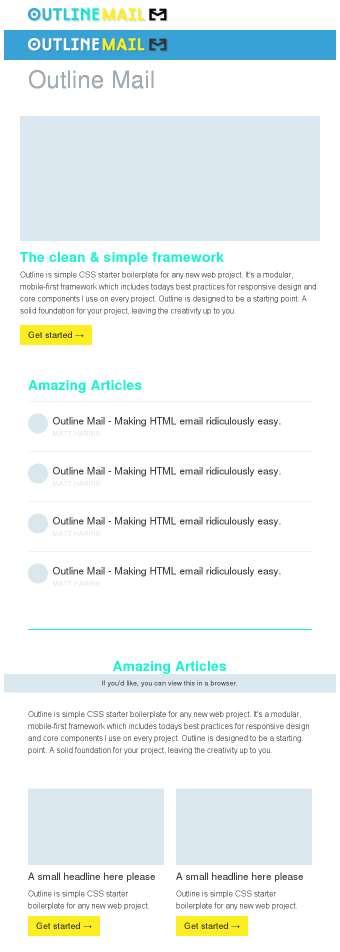
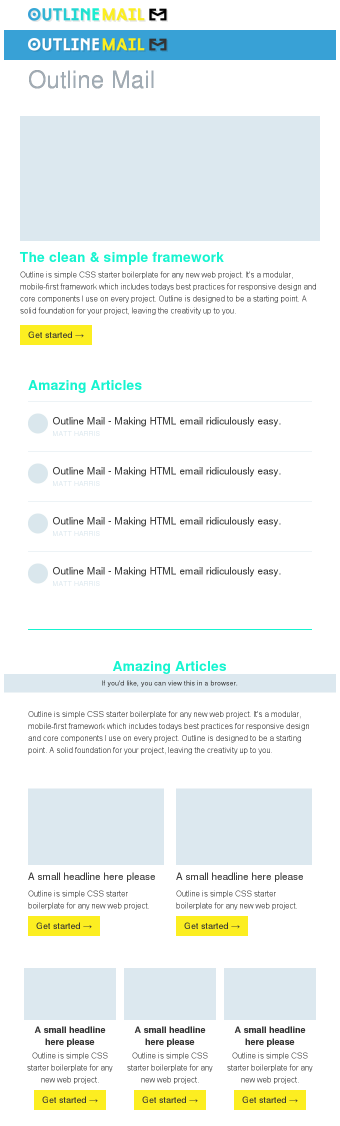
Three up element

Changed region(s): [[0.0, 0.2132, 1.0, 1.0], [0.0, 0.0, 1.0, 0.1218]]

diff --git a/templates/outline/template-outline.html b/templates/outline/template-outline.html
@@ -48,6 +48,8 @@
             oneUpTextBlock {label: One column text; properties: col1;}
             twoUpTextBlock col1, twoUpTextBlock col2 {label: Column; properties: title text image button;}
             twoUpTextBlock {label: One column text; properties: col1 col2 showTitle=true showImages=true showButtons=true align=left;}
+            threeUpTextBlock col1, threeUpTextBlock col2, threeUpTextBlock col3 {label: Column; properties: title text image button;}
+            threeUpTextBlock {label: One column text; properties: col1 col2 col3 showTitle=true showImages=true showButtons=true align=left;}
         }
     </style>
 </head>
@@ -542,6 +544,169 @@
 <!-- /Two up button centre -->
 
 
+<!-- Three up button centre -->
+<table border="0" cellpadding="0" cellspacing="0" width="100%" data-ko-block="threeUpTextBlock">
+  <tr>
+    <td style="padding: 32px 0 0 0;" bgcolor="#ffffff" align="center">
+      <table class="content-table" align="center" border="0" cellpadding="0" cellspacing="0" width="600">
+        <tr>
+          <td align="center" valign="top">
+            <!-- Three column -->
+            <table border="0" cellpadding="0" cellspacing="0" width="100%">
+              <tr>
+                <td>
+                  <!-- Column 1 -->
+                  <!--[if mso]><table border="0" cellpadding="0" cellspacing="0" width="600"><tr><td width="200" align="left"><![endif]-->
+                  <table class="content-table" border="0" cellpadding="0" cellspacing="0" width="33%" align="left">
+                    <tr>
+                      <td style="padding: 0 8px 0 8px" valign="top">
+                        <table border="0" cellpadding="0" cellspacing="0" width="100%">
+                          <tr data-ko-display="showImages">
+                            <td align="center">
+                              <a target="_blank" style="-ko-attr-href: @col1.button.url;">
+                                <img data-ko-editable="col1.image.src" style="display: block; font-family: Helvetica, Arial, sans-serif; color: #333333; font-size: 14px; width: 184px; height: 104px;" class="img-max" src="http://outlinemail.co.uk/img/16x9-img-placeholder.png" alt="Outline Mail" width="184" height="104" border="0">
+                              </a>
+                            </td>
+                          </tr>
+                          <tr>
+                            <td data-ko-display="showTitle" data-ko-editable="col1TitleText" style="-ko-attr-align: @align; padding: 8px 0 4px 0; color: #333333; font-family: Helvetica, Arial, sans-serif; font-size: 18px; font-weight: bold; line-height: 24px;">
+                              A small headline here please
+                            </td>
+                          </tr>
+                          <tr>
+                            <td data-ko-editable="col1.text" style="-ko-attr-align: @align; padding: 0 0 8px 0; color: #333333; font-family: Helvetica, Arial, sans-serif; font-size: 16px; font-weight: normal; line-height: 24px;">
+                              Outline is simple CSS starter boilerplate for any new web project.
+                            </td>
+                          </tr>
+                          <tr data-ko-display="showButtons">
+                            <td style="padding: 0 0 32px 0;">
+                              <!-- Button -->
+                              <table align="center" border="0" cellspacing="0" cellpadding="0" width="100%" align="center">
+                                <tr>
+                                  <td style="-ko-attr-align: @align;">
+                                    <table class="mobile-button-wrap" border="0" cellspacing="0" cellpadding="0">
+                                      <tr>
+                                        <td align="center">
+                                          <a data-ko-editable="col1ButtonText" class="mobile-button" style="-ko-attr-href: @col1.button.url; background-color: #fcee21; border-top: 8px solid #fcee21; border-right: 16px solid #fcee21; border-bottom: 8px solid #fcee21; border-left: 16px solid #fcee21; display: inline-block; color: #333333; font-family: Helvetica, Arial, sans-serif; font-size: 18px; font-weight: normal; line-height: 24px; text-decoration: none;" href="http://outlinemail.co.uk" target="_blank">Get started &#8594;</a>
+                                        </td>
+                                      </tr>
+                                    </table>
+                                  </td>
+                                </tr>
+                              </table>
+                              <!-- /Button -->
+                            </td>
+                          </tr>
+                        </table>
+                      </td>
+                    </tr>
+                  </table>
+                  <!-- /Column 1 -->
+                  <!--[if mso]></td><td width="200" align="left"><![endif]-->
+                  <!-- Column 2 -->
+                  <table class="content-table" border="0" cellpadding="0" cellspacing="0" width="33%" align="left">
+                    <tr>
+                      <td style="padding: 0 8px 0 8px" valign="top">
+                        <table border="0" cellpadding="0" cellspacing="0" width="100%">
+                          <tr data-ko-display="showImages">
+                            <td align="center">
+                              <a target="_blank" style="-ko-attr-href: @col2.button.url;">
+                                <img data-ko-editable="col2.image.src" style="display: block; font-family: Helvetica, Arial, sans-serif; color: #333333; font-size: 14px; width: 184px; height: 104px;" class="img-max" src="http://outlinemail.co.uk/img/16x9-img-placeholder.png" alt="Outline Mail" width="184" height="104" border="0">
+                              </a>
+                            </td>
+                          </tr>
+                          <tr>
+                            <td data-ko-display="showTitle" data-ko-editable="col2TitleText" style="-ko-attr-align: @align; padding: 8px 0 4px 0; color: #333333; font-family: Helvetica, Arial, sans-serif; font-size: 18px; font-weight: bold; line-height: 24px;">
+                              A small headline here please
+                            </td>
+                          </tr>
+                          <tr>
+                            <td data-ko-editable="col2.text" style="-ko-attr-align: @align; padding: 0 0 8px 0; color: #333333; font-family: Helvetica, Arial, sans-serif; font-size: 16px; font-weight: normal; line-height: 24px;">
+                              Outline is simple CSS starter boilerplate for any new web project.
+                            </td>
+                          </tr>
+                          <tr data-ko-display="showButtons">
+                            <td style="padding: 0 0 32px 0;">
+                              <!-- Button -->
+                              <table align="center" border="0" cellspacing="0" cellpadding="0" width="100%" align="center">
+                                <tr>
+                                  <td style="-ko-attr-align: @align;">
+                                    <table class="mobile-button-wrap" border="0" cellspacing="0" cellpadding="0">
+                                      <tr>
+                                        <td align="center">
+                                          <a data-ko-editable="col2ButtonText" class="mobile-button" style="-ko-attr-href: @col2.button.url; background-color: #fcee21; border-top: 8px solid #fcee21; border-right: 16px solid #fcee21; border-bottom: 8px solid #fcee21; border-left: 16px solid #fcee21; display: inline-block; color: #333333; font-family: Helvetica, Arial, sans-serif; font-size: 18px; font-weight: normal; line-height: 24px; text-decoration: none;" href="http://outlinemail.co.uk" target="_blank">Get started &#8594;</a>
+                                        </td>
+                                      </tr>
+                                    </table>
+                                  </td>
+                                </tr>
+                              </table>
+                              <!-- /Button -->
+                            </td>
+                          </tr>
+                        </table>
+                      </td>
+                    </tr>
+                  </table>
+                  <!-- /Column 2 -->
+                  <!--[if mso]></td><td width="200" align="left"><![endif]-->
+                  <!-- Column 3 -->
+                  <table class="content-table" border="0" cellpadding="0" cellspacing="0" width="33%" align="right">
+                    <tr>
+                      <td style="padding: 0 8px 0 8px" valign="top">
+                        <table border="0" cellpadding="0" cellspacing="0" width="100%">
+                          <tr data-ko-display="showImages">
+                            <td align="center">
+                              <a target="_blank" style="-ko-attr-href: @col3.button.url;">
+                                <img data-ko-editable="col3.image.src" style="display: block; font-family: Helvetica, Arial, sans-serif; color: #333333; font-size: 14px; width: 184px; height: 104px;" class="img-max" src="http://outlinemail.co.uk/img/16x9-img-placeholder.png" alt="Outline Mail" width="184" height="104" border="0">
+                              </a>
+                            </td>
+                          </tr>
+                          <tr>
+                            <td data-ko-display="showTitle" data-ko-editable="col3TitleText" style="-ko-attr-align: @align; padding: 8px 0 4px 0; color: #333333; font-family: Helvetica, Arial, sans-serif; font-size: 18px; font-weight: bold; line-height: 24px;">
+                              A small headline here please
+                            </td>
+                          </tr>
+                          <tr>
+                            <td data-ko-editable="col3.text" style="-ko-attr-align: @align; padding: 0 0 8px 0; color: #333333; font-family: Helvetica, Arial, sans-serif; font-size: 16px; font-weight: normal; line-height: 24px;">
+                              Outline is simple CSS starter boilerplate for any new web project.
+                            </td>
+                          </tr>
+                          <tr data-ko-display="showButtons">
+                            <td style="padding: 0 0 32px 0;">
+                              <!-- Button -->
+                              <table align="center" border="0" cellspacing="0" cellpadding="0" width="100%" align="center">
+                                <tr>
+                                  <td style="-ko-attr-align: @align;">
+                                    <table class="mobile-button-wrap" border="0" cellspacing="0" cellpadding="0">
+                                      <tr>
+                                        <td align="center">
+                                          <a data-ko-editable="col3ButtonText" class="mobile-button" style="-ko-attr-href: @col3.button.url; background-color: #fcee21; border-top: 8px solid #fcee21; border-right: 16px solid #fcee21; border-bottom: 8px solid #fcee21; border-left: 16px solid #fcee21; display: inline-block; color: #333333; font-family: Helvetica, Arial, sans-serif; font-size: 18px; font-weight: normal; line-height: 24px; text-decoration: none;" href="http://outlinemail.co.uk" target="_blank">Get started &#8594;</a>
+                                        </td>
+                                      </tr>
+                                    </table>
+                                  </td>
+                                </tr>
+                              </table>
+                              <!-- /Button -->
+                            </td>
+                          </tr>
+                        </table>
+                      </td>
+                    </tr>
+                  </table>
+                  <!-- /Column 3 -->
+                  <!--[if mso]></td></tr></table><![endif]-->
+                </td>
+              </tr>
+            </table>
+          </td>
+        </tr>
+      </table>
+    </td>
+  </tr>
+</table>
+<!-- /Three up button centre -->
 
 </div>
 
